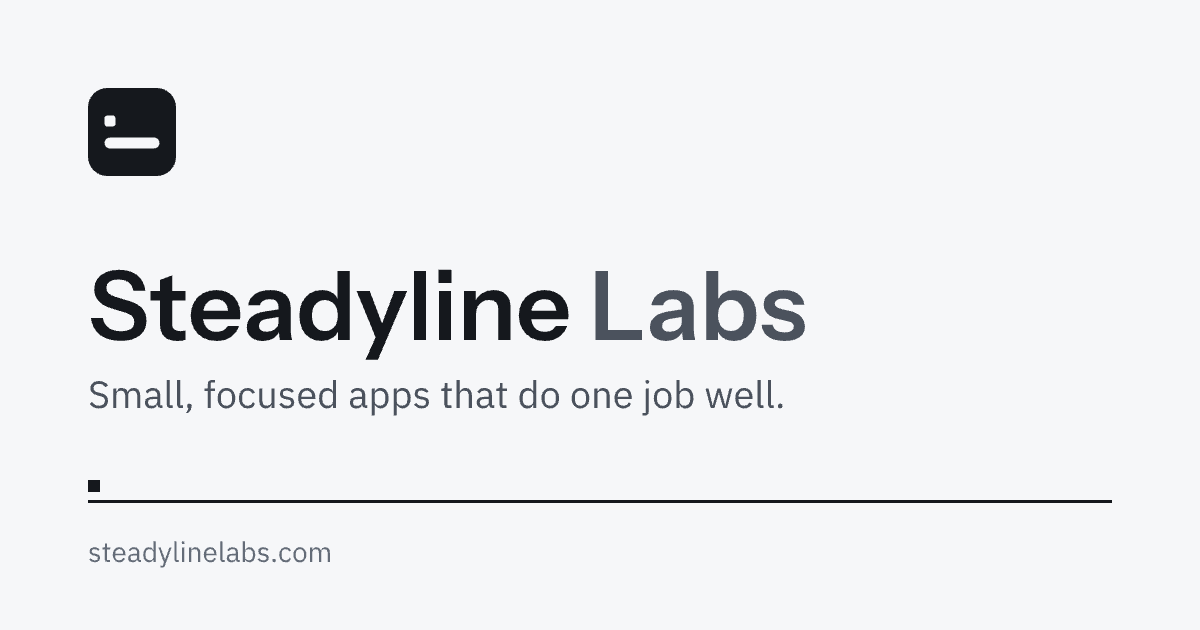
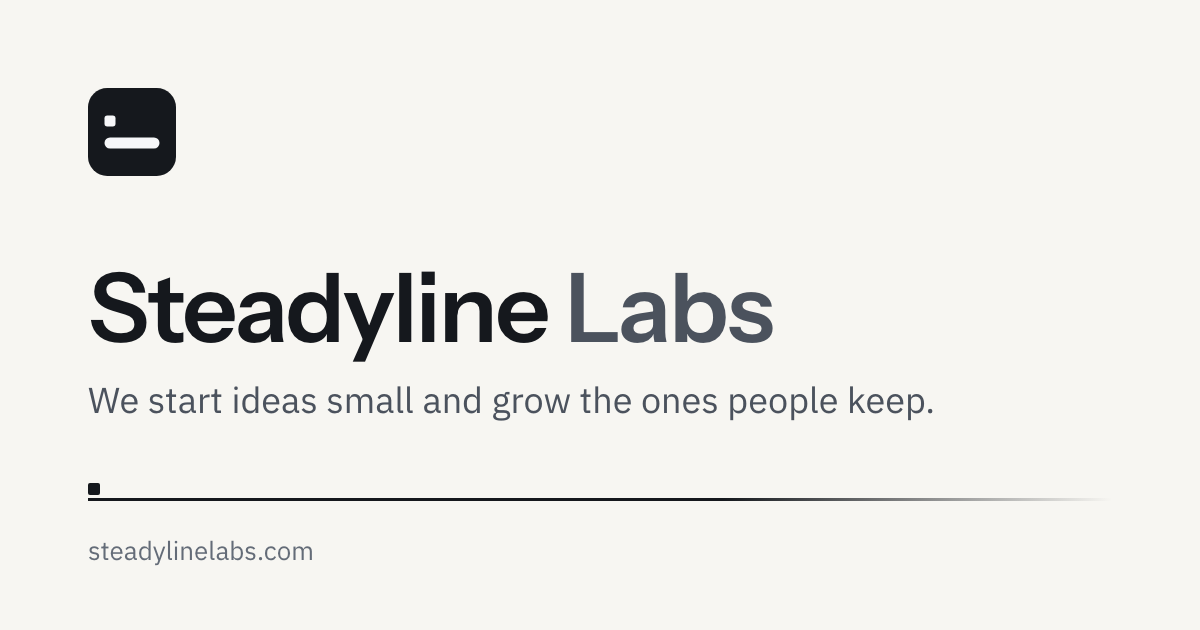
Refresh the share image with the current tagline and add image alt text

diff --git a/index.html b/index.html
@@ -17,10 +17,12 @@
 <meta property="og:url" content="https://steadylinelabs.com/">
 <meta property="og:title" content="Steadyline Labs">
 <meta property="og:description" content="We start ideas small and grow the ones people keep.">
-<meta property="og:image" content="https://steadylinelabs.com/assets/og/steadyline-og-1200x630.png">
+<meta property="og:image" content="https://steadylinelabs.com/assets/og/steadyline-og-1200x630.png?v=2">
 <meta property="og:image:width" content="1200"><meta property="og:image:height" content="630">
+<meta property="og:image:alt" content="Steadyline Labs: We start ideas small and grow the ones people keep.">
 <meta name="twitter:card" content="summary_large_image">
-<meta name="twitter:image" content="https://steadylinelabs.com/assets/og/steadyline-og-1200x630.png">
+<meta name="twitter:image" content="https://steadylinelabs.com/assets/og/steadyline-og-1200x630.png?v=2">
+<meta name="twitter:image:alt" content="Steadyline Labs: We start ideas small and grow the ones people keep.">
 <link rel="preconnect" href="https://fonts.googleapis.com">
 <link rel="preconnect" href="https://fonts.gstatic.com" crossorigin>
 <link rel="stylesheet" href="https://fonts.googleapis.com/css2?family=Instrument+Sans:wght@600&family=IBM+Plex+Sans:wght@400;500&display=swap">
@@ -143,9 +145,9 @@
             <img src="/assets/apps/dev-1.png" alt="App in development" width="44" height="44" loading="lazy">
             <img src="/assets/apps/dev-2.png" alt="App in development" width="44" height="44" loading="lazy">
             <img src="/assets/apps/dev-3.png" alt="App in development" width="44" height="44" loading="lazy">
-            <video id="dev-4-anim" width="44" height="44" autoplay muted loop playsinline preload="auto" poster="/assets/apps/dev-4.png" role="img" aria-label="App in development">
-              <source src="/assets/apps/dev-4.mp4" type="video/mp4">
-              <source src="/assets/apps/dev-4.webm" type="video/webm">
+            <video id="dev-4-anim" width="44" height="44" autoplay muted loop playsinline preload="auto" poster="/assets/apps/dev-4.png?v=20261023a" role="img" aria-label="App in development">
+              <source src="/assets/apps/dev-4.mp4?v=20261023a" type="video/mp4">
+              <source src="/assets/apps/dev-4.webm?v=20261023a" type="video/webm">
             </video>
             <script>(function(){var v=document.getElementById('dev-4-anim'),m=window.matchMedia&&matchMedia('(prefers-reduced-motion: reduce)');function still(){v.removeAttribute('autoplay');v.pause();while(v.firstElementChild)v.removeChild(v.firstElementChild);v.load();}if(m&&m.matches)still();else if(m&&m.addEventListener)m.addEventListener('change',function(e){if(e.matches)still();});})();</script>
           </div>

diff --git a/privacy/index.html b/privacy/index.html
@@ -16,10 +16,12 @@
 <meta property="og:type" content="website">
 <meta property="og:url" content="https://steadylinelabs.com/privacy/">
 <meta property="og:title" content="Site privacy · Steadyline Labs">
-<meta property="og:image" content="https://steadylinelabs.com/assets/og/steadyline-og-1200x630.png">
+<meta property="og:image" content="https://steadylinelabs.com/assets/og/steadyline-og-1200x630.png?v=2">
 <meta property="og:image:width" content="1200"><meta property="og:image:height" content="630">
+<meta property="og:image:alt" content="Steadyline Labs: We start ideas small and grow the ones people keep.">
 <meta name="twitter:card" content="summary_large_image">
-<meta name="twitter:image" content="https://steadylinelabs.com/assets/og/steadyline-og-1200x630.png">
+<meta name="twitter:image" content="https://steadylinelabs.com/assets/og/steadyline-og-1200x630.png?v=2">
+<meta name="twitter:image:alt" content="Steadyline Labs: We start ideas small and grow the ones people keep.">
 <link rel="preconnect" href="https://fonts.googleapis.com">
 <link rel="preconnect" href="https://fonts.gstatic.com" crossorigin>
 <link rel="stylesheet" href="https://fonts.googleapis.com/css2?family=Instrument+Sans:wght@600&family=IBM+Plex+Sans:wght@400;500&display=swap">
